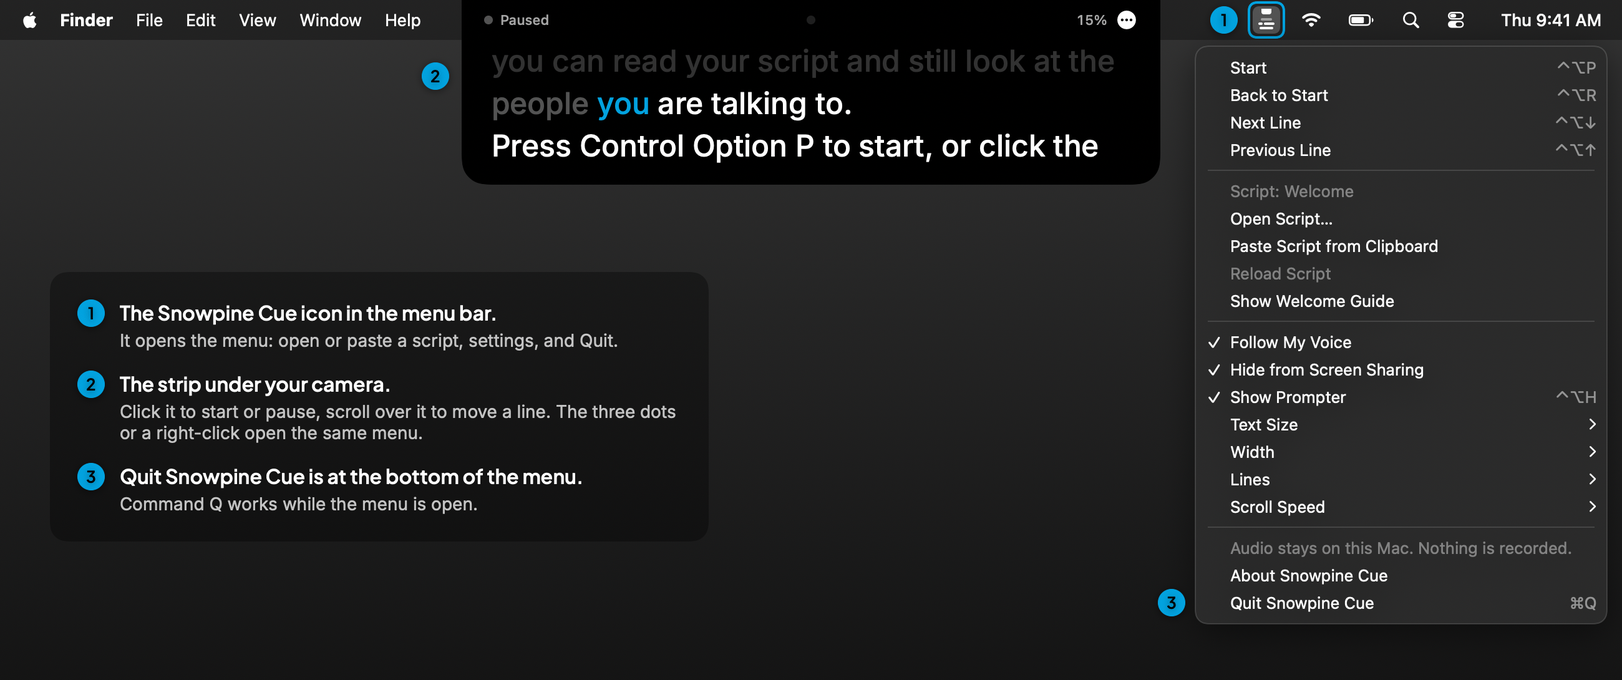
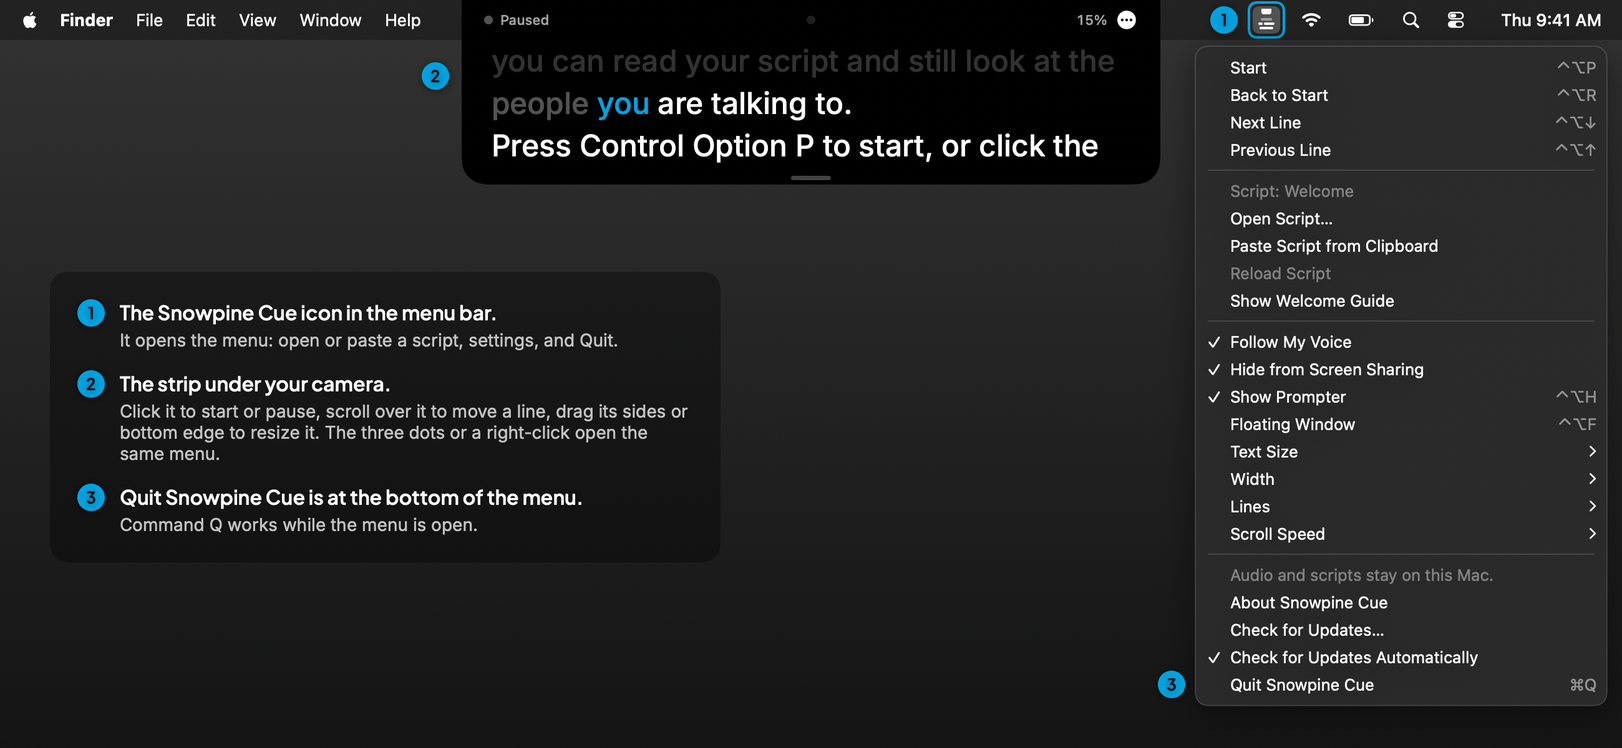
Docs, page and pictures for 0.3.0; stop a dragged edge at the screen

diff --git a/site/index.html b/site/index.html
@@ -42,7 +42,7 @@
 </div>
 
 <section class="alt"><div class="wrap">
-  <div class="intro"><div class="eyebrow">See it</div><h2>One minute with Snowpine Cue</h2></div>
+  <div class="intro"><div class="eyebrow">See it</div><h2>See Snowpine Cue in action</h2></div>
   <video controls preload="none" playsinline poster="assets/video-poster.jpg" width="1920" height="1080">
     <source src="assets/snowpine-cue.mp4" type="video/mp4">
     <a href="assets/snowpine-cue.mp4">Download the video</a>
@@ -64,6 +64,14 @@
     <figure><img src="assets/pictures/share.png" alt="Two screens side by side. On your screen the strip shows above the slides. What they see is only the slides." loading="lazy" width="1400" height="565"><figcaption>An illustration of how it's designed to work.</figcaption></figure>
   </div>
   <div class="row">
+    <div><h3>Make it your size</h3><p>Drag the strip's sides or bottom edge to resize it. Or switch to a floating window you can move to any screen and resize from any edge. It's hidden from screen sharing too.</p></div>
+    <figure><img src="assets/pictures/size.png" alt="A larger floating window with a script in it on a Mac screen, with an arrow on its corner showing it can be dragged to resize." loading="lazy" width="1400" height="1000"><figcaption>The real window with a made-up talk.</figcaption></figure>
+  </div>
+  <div class="row">
+    <div><h3>Set your own pace</h3><p>Rather not have it listen? Turn off Follow My Voice and it scrolls at a set speed. Change the speed with a shortcut or a slider, and it shows right on the strip.</p></div>
+    <figure><img src="assets/pictures/speed.png" alt="The strip scrolling at a set speed, showing 150 words a minute in its top band." loading="lazy" width="1400" height="400"></figure>
+  </div>
+  <div class="row">
     <div><h3>Bring the script you already have</h3><p>Open plain text, Markdown, Word, RTF or OpenDocument files, or just paste your script in. Slide decks saved as HTML with speaker notes load a slide at a time.</p></div>
     <figure><img src="assets/pictures/script.png" alt="The supported file types, and the Open Script and Paste Script from Clipboard menu items." loading="lazy" width="1400" height="500"></figure>
   </div>
@@ -71,7 +79,7 @@
 
 <section class="alt"><div class="wrap">
   <div class="intro"><div class="eyebrow">Private</div><h2>Your words stay on your Mac</h2>
-    <p>Speech is recognized on your Mac. Audio is never recorded. The app runs in the macOS sandbox with no network permission, so macOS itself blocks it from the internet. There's no account, no analytics and no tracking. You can check all of this in the code.</p></div>
+    <p>Speech is recognized on your Mac. Audio is never recorded, and your scripts never leave it. The app runs in the macOS sandbox with no network permission of its own. The only thing that goes online is the update check, which a separate helper runs against GitHub, and you can turn that off. There's no account, no analytics and no tracking. You can check all of this in the code.</p></div>
 </div></section>
 
 <section id="install"><div class="wrap">
@@ -81,6 +89,7 @@
     <li><a href="https://github.com/snowpinecode/snowpine-cue/releases/latest/download/Snowpine-Cue.zip">Download the zip</a>, open it, and drag Snowpine Cue to your Applications folder.</li>
     <li>Open it. macOS will say it can't check the app. Click <strong>Done</strong>.</li>
     <li>Go to System Settings &gt; Privacy &amp; Security, scroll down, and click <strong>Open Anyway</strong>.</li>
+    <li>In the box that pops up, click <strong>Open Anyway</strong> again (not Move to Trash), then confirm with your password or Touch ID. You only do this once.</li>
     <li>The strip appears under your camera with a short welcome guide. Press <strong>Control Option P</strong> and read it out loud. macOS asks to use the microphone and speech recognition the first time. Allow both.</li>
   </ol>
   <p class="fine narrow">To remove it, quit from its menu and drag it to the Trash. It has no installer and nothing else to clean up beyond its saved settings.</p>
@@ -98,6 +107,7 @@ scripts/build-app.sh --install</code></pre>
   <details><summary>Is it really free?</summary><p>Yes. It's open source under the MIT License, so you can use it, change it and share it.</p></details>
   <details><summary>Which Macs does it work on?</summary><p>Any Mac on macOS 14 or later. It's best on a MacBook with a notch and the built-in camera. On other Macs the strip hangs from the top of the screen.</p></details>
   <details><summary>Is there an iPhone version?</summary><p>Not yet. It's Mac only for now.</p></details>
+  <details><summary>How do updates work?</summary><p>It checks GitHub when it opens and once a day. If a new version is out it tells you, and one click installs it. Nothing installs without that click, and each update must carry a matching signature. Turn off Check for Updates Automatically in the menu and it only checks when you ask. If you have version 0.2.0, download the new version once by hand.</p></details>
   <details><summary>How do I open the menu or quit?</summary><p>Click the three dots on the right side of the strip, or right-click the strip. Quit is at the bottom of the menu.</p></details>
   <details><summary>The strip doesn't move when I talk. What now?</summary><p>Check that Follow My Voice is ticked in the menu, and that Snowpine Cue is allowed under Microphone and Speech Recognition in System Settings. If it says on-device speech isn't available, turn on Dictation under Keyboard settings so macOS downloads the speech model.</p></details>
   <details><summary>Who made this?</summary><p>Snowpine Code. I build custom websites, apps and automations. <a href="https://snowpinecode.com">See what else I do</a>.</p></details>

diff --git a/Sources/SnowpineCueCore/PanelGeometry.swift b/Sources/SnowpineCueCore/PanelGeometry.swift
@@ -112,6 +112,19 @@ public enum PanelGeometry {
         return (CGRect(x: minX, y: minY, width: width, height: height), lines)
     }
 
+    /// The same, but a dragged edge stops at the edge of the screen, so the opposite edge never gets pushed.
+    public static func resizeFloating(_ frame: CGRect, edges: ResizeEdges, dx: CGFloat, dy: CGFloat,
+                                      limits: PanelLimits, within bounds: CGRect) -> (frame: CGRect, lines: Int) {
+        let roomWide = edges.contains(.left) ? frame.maxX - bounds.minX : bounds.maxX - frame.minX
+        let roomTall = edges.contains(.top) ? bounds.maxY - frame.minY : frame.maxY - bounds.minY
+        let widest = max(limits.width.lowerBound, min(limits.width.upperBound, roomWide))
+        let linesThatFit = Int(((roomTall - limits.chrome) / limits.lineHeight).rounded(.down))
+        let tallest = max(limits.lines.lowerBound, min(limits.lines.upperBound, linesThatFit))
+        let tighter = PanelLimits(width: limits.width.lowerBound...widest, lines: limits.lines.lowerBound...tallest,
+                                  lineHeight: limits.lineHeight, chrome: limits.chrome)
+        return resizeFloating(frame, edges: edges, dx: dx, dy: dy, limits: tighter)
+    }
+
     /// Keeps a window inside the bounds when it fits there, and pins it to the top left when it doesn't,
     /// so its top band (where it is dragged from) is always reachable.
     public static func clamp(_ frame: CGRect, to bounds: CGRect) -> CGRect {

diff --git a/Tests/SnowpineCueCoreTests/PanelGeometryTests.swift b/Tests/SnowpineCueCoreTests/PanelGeometryTests.swift
@@ -78,3 +78,18 @@ private let size = CGSize(width: 600, height: 52 + 3 * 34)
     #expect(tooBig.minX == 0)
     #expect(tooBig.maxY == screen.maxY)   // the top band stays reachable
 }
+
+@Test func aDraggedEdgeStopsAtTheScreenSoTheOppositeEdgeStaysPut() {
+    let screen = CGRect(x: 0, y: 0, width: 1440, height: 900)
+    let frame = CGRect(x: 600, y: 300, width: 820, height: limits.height(lines: 3))
+    let right = PanelGeometry.resizeFloating(frame, edges: .right, dx: 100, dy: 0, limits: limits, within: screen)
+    #expect(right.frame.minX == 600)
+    #expect(right.frame.maxX == 1440)
+    let bottom = PanelGeometry.resizeFloating(frame, edges: .bottom, dx: 0, dy: -5000, limits: limits, within: screen)
+    #expect(bottom.frame.maxY == frame.maxY)
+    #expect(bottom.frame.minY >= 0)
+    let left = CGRect(x: 40, y: 300, width: 820, height: limits.height(lines: 3))
+    let leftward = PanelGeometry.resizeFloating(left, edges: .left, dx: -100, dy: 0, limits: limits, within: screen)
+    #expect(leftward.frame.maxX == left.maxX)
+    #expect(leftward.frame.minX == 0)
+}

diff --git a/Sources/SnowpineCue/AppDelegate.swift b/Sources/SnowpineCue/AppDelegate.swift
@@ -207,7 +207,8 @@ final class AppDelegate: NSObject, NSApplicationDelegate, NSMenuDelegate {
             return
         }
         if settings.floating {
-            let result = PanelGeometry.resizeFloating(start.frame, edges: edges, dx: dx, dy: dy, limits: start.limits)
+            let bounds = screen(for: start.frame)?.frame ?? homeScreen?.frame ?? start.frame
+            let result = PanelGeometry.resizeFloating(start.frame, edges: edges, dx: dx, dy: dy, limits: start.limits, within: bounds)
             settings.floatTopLeft = CGPoint(x: result.frame.minX, y: result.frame.maxY)
             if settings.floatWidth != Double(result.frame.width) { settings.floatWidth = Double(result.frame.width) }
             if settings.floatLines != result.lines { settings.floatLines = result.lines }

diff --git a/README.md b/README.md
@@ -5,9 +5,9 @@
 A free, open source teleprompter that sits right under your MacBook's camera and follows your voice.
 Made by [Snowpine Code](https://snowpinecode.com).
 
-**[See the page and the one-minute video](https://snowpinecode.github.io/snowpine-cue/)**
+**[See the page and the video](https://snowpinecode.github.io/snowpine-cue/)**
 
-[![Watch the one-minute video](docs/video-poster.jpg)](https://snowpinecode.github.io/snowpine-cue/)
+[![Watch the video](docs/video-poster.jpg)](https://snowpinecode.github.io/snowpine-cue/)
 
 Reading a script on a video call makes your eyes drift away from the camera. Snowpine Cue puts the
 script in a small strip at the top of the screen, next to the camera in the notch, and moves
@@ -28,13 +28,22 @@ not your script.
 - **Reads your scripts.** Plain text, Markdown, Word (.docx), RTF, OpenDocument, or paste from the
   clipboard. Slide decks saved as HTML with speaker notes in `data-notes` attributes load one
   slide at a time, with the slide titles as labels.
-- **Manual mode.** Turn off Follow My Voice to scroll at a set speed instead.
+- **Your size, your place.** Drag the strip's sides or bottom edge to resize it, or switch to a
+  floating window you can move to any screen and resize from any edge. It's hidden from screen sharing too.
+- **Manual mode.** Turn off Follow My Voice to scroll at a set speed instead. Change the speed with a
+  shortcut or a slider, and it shows in words a minute on the strip.
+- **One-click updates.** It tells you when a new version is out, and one click installs it.
 
 ## Getting started
 
 ### 1. Install
 
-**Download it:** [download the zip](https://github.com/snowpinecode/snowpine-cue/releases/latest/download/Snowpine-Cue.zip), open it, and drag Snowpine Cue to Applications. The app isn't signed with a paid Apple developer certificate, so macOS warns you the first time. Open it, click **Done**, then go to System Settings > Privacy & Security, scroll down and click **Open Anyway**.
+**Download it:**
+
+1. [Download the zip](https://github.com/snowpinecode/snowpine-cue/releases/latest/download/Snowpine-Cue.zip), open it, and drag Snowpine Cue to Applications.
+2. Open it. The app isn't signed with a paid Apple developer certificate, so macOS says it was blocked. Click **Done**.
+3. Go to System Settings > Privacy & Security, scroll down and click **Open Anyway**.
+4. In the box that pops up, click **Open Anyway** again (not Move to Trash), then confirm with your password or Touch ID. You only do this once.
 
 **Or build it yourself,** which takes about a minute and skips the warning. You need the Xcode Command Line Tools (run `xcode-select --install` once) or Xcode. Then in Terminal:
 
@@ -90,9 +99,11 @@ it waits; when you pick up again, even a sentence later, it finds your place.
 | Control Option Down / Up | Next or previous line |
 | Control Option R | Back to the start |
 | Control Option H | Show or hide the strip |
+| Control Option F | Switch between the strip and the floating window |
+| Control Option Right / Left | Scroll faster or slower when Follow My Voice is off |
 
-With the mouse: click the strip to start or pause, scroll over it to move by lines, and click the
-three dots or right-click it for the menu.
+With the mouse: click the strip to start or pause, scroll over it to move by lines, drag its sides or
+bottom edge to resize it, and click the three dots or right-click it for the menu.
 
 The menu also sets the text size, the strip width, how many lines show, and the scroll speed for
 manual mode (when Follow My Voice is off).
@@ -102,6 +113,14 @@ To check how a file will be read before a call:
 ```bash
 "$HOME/Applications/Snowpine Cue.app/Contents/MacOS/SnowpineCue" --check-script "My talk.md"
 ```
+
+## Updating
+
+Snowpine Cue tells you when a new version is out, and one click installs it. Nothing installs without
+that click. Choose **Check for Updates…** in the menu any time, or turn off **Check for Updates
+Automatically**. With it off, no check starts unless you ask.
+
+Version 0.2.0 can't update itself: [download the newest version](https://github.com/snowpinecode/snowpine-cue/releases/latest/download/Snowpine-Cue.zip) once and replace the old copy. macOS asks for the microphone and speech recognition one more time after that, and not again on later updates.
 
 ## Troubleshooting
 
@@ -122,8 +141,13 @@ To check how a file will be read before a call:
   do that for your language, voice follow stays off; Snowpine Cue never falls back to a server.
 - Audio is **never recorded or saved**. The microphone is on only while the prompter is running.
 - The app runs in the **macOS App Sandbox with no network entitlement**, so macOS itself blocks it
-  from reaching the internet. The code has no networking calls, and CI checks that it stays that
-  way (`scripts/check-no-network.sh`).
+  from reaching the internet. The app's own code has no networking calls, and CI checks that it stays
+  that way (`scripts/check-no-network.sh`).
+- **The only network use is checking for updates.** That is done by the Downloader helper in
+  [Sparkle](https://sparkle-project.org), an open source update tool. It fetches only the update feed
+  and the new version from GitHub, over https. Your speech, audio and scripts are never part of it. GitHub
+  sees what it sees for any download. You can turn off automatic checks in the menu.
+- Each update must carry a valid signature matching the key in the app, checked before it is unpacked.
 - No accounts, no analytics, no tracking. Your settings are stored in the app's own preferences.
 
 ## Requirements
@@ -146,25 +170,24 @@ Because the strip hides from screenshots, the pictures in this README are drawn 
 ## Build and test
 
 ```bash
-scripts/test.sh          # unit tests, no-network check, smoke test
-scripts/build-app.sh     # build/Snowpine Cue.app
+scripts/test.sh          # unit tests, no-network check, smoke test, window check
+scripts/build-app.sh     # build/Products.noindex/Snowpine Cue.app
 ```
 
 The matching logic lives in `Sources/SnowpineCueCore` (no UI, fully unit tested). The app is in
 `Sources/SnowpineCue`. `SnowpineCue --smoke-test <folder>` renders the strip to `prompter.png` without
 showing a window or touching the microphone.
 
-Builds are signed ad hoc, so macOS warns on downloaded copies. A paid Apple Developer ID would remove the warning.
-`scripts/package-release.sh` builds the download, and pushing a tag like `v0.2.0` publishes it on the Releases page.
+Local builds are signed ad hoc. Releases are signed with one self-signed certificate, so macOS keeps its permissions across updates. macOS still warns the first time on a downloaded copy; a paid Apple Developer ID would remove that. See [docs/MAINTAINING.md](docs/MAINTAINING.md) for how releases and updates work.
 
 The web page is in `site/` and publishes to GitHub Pages when `main` changes.
 
 ## Contributing
 
-Issues and pull requests are welcome. Please keep the privacy guarantees: no network access, no
-recording, on-device recognition only. `scripts/test.sh` must pass.
+Issues and pull requests are welcome. Please keep the privacy guarantees: no network access in the
+app itself (only Sparkle's Downloader helper, for updates), no recording, on-device recognition only. `scripts/test.sh` must pass.
 
 ## License
 
 MIT. See [LICENSE](LICENSE). The bundled Inter and Plus Jakarta Sans fonts are under the SIL Open Font
-License (see `Resources/Fonts`). The Snowpine Code name and logo are not part of the MIT grant.
+License (see `Resources/Fonts`). Sparkle, the one third-party dependency, is under its own MIT-style license (see `Resources/Sparkle-LICENSE.txt`) and pinned to an exact version in `Package.swift`. The Snowpine Code name and logo are not part of the MIT grant.

diff --git a/docs/MAINTAINING.md b/docs/MAINTAINING.md
@@ -4,8 +4,22 @@
 You need macOS 14 or later and the Xcode Command Line Tools.
 
 ```bash
-scripts/test.sh                  # unit tests, the no-network check, a render check
+scripts/test.sh                  # unit tests, the no-network check, a render check, the window check
 scripts/build-app.sh --install   # builds the app and moves it to ~/Applications
+```
+
+Without a signing identity, `build-app.sh` signs the app ad hoc. That is fine for testing, but macOS
+treats each ad-hoc build as a new app, so it asks for the microphone and speech permissions again.
+
+### A build signed with the release certificate
+Import the certificate (a .p12 file and a file holding its password) into a throwaway keychain, then
+build with it. Your login keychain is not touched.
+
+```bash
+export SIGN_KEYCHAIN=$(scripts/import-signing-cert.sh cert.p12 cert-password.txt)
+export SIGN_IDENTITY="Snowpine Code App Signing"
+scripts/build-app.sh
+security delete-keychain "$SIGN_KEYCHAIN"   # when you're done
 ```
 
 ## Where things live
@@ -17,13 +31,48 @@ scripts/build-app.sh --install   # builds the app and moves it to ~/Applications
 | Strip colors | `Palette` in `Sources/SnowpineCue/PrompterView.swift` |
 | Fonts | `Resources/Fonts`, loaded by `Sources/SnowpineCue/BrandFonts.swift` |
 | Welcome guide | `WelcomeScript` in `Sources/SnowpineCue/ScriptLoader.swift` |
-| README pictures | `SnowpineCue --render-docs docs` redraws them from the real strip, menu and icon |
+| README pictures | `SnowpineCue --render-docs docs` redraws them from the real strip, menu, icon and floating window |
+| Strip frames for the page and video | `SnowpineCue --render-frames <folder>` draws the strip once per word of a demo talk, plus `strip-900.png` scrolling at a set speed |
+| Resize and move math | `PanelGeometry` in `Sources/SnowpineCueCore/PanelGeometry.swift` (unit tested); the mouse handling is `PrompterHostingView` |
+| In-app updates | `Sources/SnowpineCue/Updater.swift` (the only file that imports Sparkle); feed URL, public key and check settings in `Resources/Info.plist` |
+| Sparkle in the app bundle | `scripts/embed-sparkle.sh` copies the framework in and signs its parts. Sparkle's helpers keep Sparkle's own setup with no entitlements, and `scripts/build-app.sh` fails if any carries entitlements, on any architecture. Don't give the Downloader its own sandbox: that needs a Sparkle build with an app-specific service id, or it can clash with other apps that use Sparkle |
+| The update feed | `scripts/make-appcast.sh` signs the zip with the EdDSA key and writes `build/appcast.xml` |
+| Sparkle version | `Package.swift` (exact) and `scripts/sparkle-tools.sh` (`VERSION` and `SHA256` of the tools download). Change them together |
 | Web page | `site/`, published by `.github/workflows/pages.yml` |
 
+Builds go to `build/Products.noindex`, because Spotlight skips folders with that ending, so a build never shows up as a second copy of the app.
+
 ## Publish a download
-Set the version and push a tag, such as `v0.2.0`. `.github/workflows/release.yml` tests, builds and attaches the zip. The page links to `releases/latest/download/Snowpine-Cue.zip`, so it always gets the newest one.
+Releasing needs three repository secrets (Settings > Secrets and variables > Actions):
+
+| Secret | What it is |
+| --- | --- |
+| `CODESIGN_P12_BASE64` | The release certificate ("Snowpine Code App Signing") and its private key, as a base64 .p12 |
+| `CODESIGN_P12_PASSWORD` | The .p12 password |
+| `SPARKLE_ED_PRIVATE_KEY` | The EdDSA private key that signs updates. Its public half is `SUPublicEDKey` in `Resources/Info.plist` |
+
+Set the version in `scripts/build-app.sh` and `scripts/package-release.sh` (the default for local
+builds), then push a tag such as `v0.3.0`. `.github/workflows/release.yml` then:
+1. runs the tests,
+2. imports the certificate into a throwaway keychain,
+3. builds a universal app signed with it (the build number is the UTC date and time, so each release counts as newer),
+4. signs `Snowpine-Cue.zip` with the EdDSA key and writes `appcast.xml`,
+5. attaches `Snowpine-Cue.zip`, `Snowpine-Cue.zip.sha256` and `appcast.xml` to the release, and deletes the keychain.
+
+`https://github.com/snowpinecode/snowpine-cue/releases/latest/download/Snowpine-Cue.zip` always gets the newest
+download, and installed copies read `.../releases/latest/download/appcast.xml` to find updates. So:
+- Every release marked Latest must have `appcast.xml` attached, or update checks stop finding anything.
+- Keep the same certificate and the same EdDSA key. A new certificate makes macOS ask for the microphone
+  and speech permissions again; a new EdDSA key means installed copies refuse every update.
+- Back up the .p12, its password and the EdDSA private key somewhere safe outside the repository.
 
 ## Check before every release
 - Read a script aloud and check it keeps pace.
+- Drag the strip's edges, then switch to the floating window, move it and resize it from a corner.
 - Share the whole screen in a test call and check the strip doesn't show.
-- Keep the privacy promises: no network access, no recording, on-device recognition only.
+- Run `"build/Products.noindex/Snowpine Cue.app/Contents/MacOS/SnowpineCue" --update-check` on the packaged app: it reads the feed
+  through Sparkle's Downloader helper, with no window, and reports what it found.
+- After publishing, open the previous version, choose Check for Updates, install, and check that it
+  relaunches as the new version with its settings and without asking for permissions again.
+- Keep the privacy promises: no network access in the app itself (only Sparkle's Downloader, for
+  updates), no recording, on-device recognition only.

diff --git a/SECURITY.md b/SECURITY.md
@@ -7,15 +7,22 @@ on your Mac. Each control below names where it is implemented, so it can be chec
 
 | Control | Where |
 | --- | --- |
-| App Sandbox on, with no network entitlement: macOS blocks all network access | `Resources/SnowpineCue.entitlements` |
+| App Sandbox on, with no network entitlement: macOS blocks the app's own network access | `Resources/SnowpineCue.entitlements` |
+| In-app updates (Sparkle 2.10.1, pinned): the only network use. Sparkle's separate Downloader helper fetches the update feed and the update from GitHub, over https. Speech, audio and scripts are never part of it | `Sources/SnowpineCue/Updater.swift`, `Resources/Info.plist` |
+| Turning off Check for Updates Automatically means no check starts unless you ask. While it is off, the app refuses background checks, including one already scheduled | `Sources/SnowpineCue/Updater.swift` |
+| Every update must be signed with the EdDSA key matching `SUPublicEDKey`, checked before it is unpacked. Nothing installs without your click | `Resources/Info.plist`, `scripts/make-appcast.sh` |
+| Sparkle's helpers (Downloader, Installer, Updater) ship exactly as Sparkle ships them, with no extra entitlements. They are not sandboxed: the Installer has to replace the app, and giving the shared Downloader its own sandbox can clash with other apps that use Sparkle | `scripts/embed-sparkle.sh` |
+| Two extra entitlements, both for Sparkle: `cs.disable-library-validation` (to load its bundled framework without an Apple Team ID) and a mach-lookup exception for its two local services (`-spks`, `-spki`), which are connections between processes on the Mac, not network access | `Resources/SnowpineCue.entitlements` |
 | Only the microphone and user-chosen files (read only) are granted | `Resources/SnowpineCue.entitlements` |
 | Speech recognition is on-device only; no server fallback | `Sources/SnowpineCue/SpeechFollower.swift` (`requiresOnDeviceRecognition = true`, `supportsOnDeviceRecognition` check) |
 | Audio buffers go straight to the recognizer and are never written to disk | `Sources/SnowpineCue/SpeechFollower.swift` |
 | The microphone runs only while the prompter is running | `PrompterModel.start()` and `pause()` |
-| No networking APIs in the code, checked in CI | `scripts/check-no-network.sh`, `.github/workflows/ci.yml` |
-| Hardened runtime on the app signature | `scripts/build-app.sh` |
+| No networking APIs in the app's code, Sparkle imported in one file only, and exactly this set of entitlements, checked in CI | `scripts/check-no-network.sh`, `.github/workflows/ci.yml` |
+| The build checks the entitlements actually signed into the app are exactly that set on every architecture, and that Sparkle's helpers carry none | `scripts/build-app.sh` |
+| Script files have limits on size, length and sections, and packages are refused | `Sources/SnowpineCue/ScriptLoader.swift` |
+| Hardened runtime on the app signature. Releases are signed in CI with one certificate from repository secrets, in a throwaway keychain | `scripts/build-app.sh`, `scripts/import-signing-cert.sh`, `.github/workflows/release.yml` |
 | Secret scan of the full history on every push (pinned gitleaks) | `.github/workflows/secret-scan.yml` |
-| No accounts, analytics, crash reporting or telemetry | the whole of `Sources/` |
+| No accounts, analytics, crash reporting or telemetry. The update check sends GitHub only what any download does, and can be turned off | the whole of `Sources/` |
 | The strip is excluded from screen capture by default | `Sources/SnowpineCue/PrompterPanel.swift` (`sharingType = .none`) |
 
 The web page in `site/` is static: no scripts, cookies, analytics or forms, with a strict Content Security Policy.
@@ -28,7 +35,7 @@ preferences. Scripts are read when you open them and kept in memory; nothing is 
 ## Limits
 
 Screen-capture exclusion depends on macOS and on the capturing app honoring it. Test with your own
-call app before relying on it.
+call app before relying on it. Update checks are on by default (at launch and once a day); turn them off in the menu. Without a paid Apple Developer ID, a downloaded copy shows a macOS warning the first time it opens (see the README).
 
 ## Reporting a problem
 

diff --git a/docs/BUILD-LOG.md b/docs/BUILD-LOG.md
@@ -1,5 +1,20 @@
 # Build log
 
+## 2026-11-06: version 0.3.0
+
+- Resize by dragging: the strip's sides move together so it stays centered under the camera, and its bottom edge snaps to whole lines.
+- Floating Window (menu, or Control Option F): a larger window that can be dragged to any screen and resized from any edge or corner. It remembers its place and size and is hidden from screen sharing like the strip.
+- Scroll speed: Control Option Right and Left change it by 10 words a minute, the Scroll Speed menu has a slider (60 to 300), and the speed shows in the strip when Follow My Voice is off.
+- In-app updates with Sparkle 2.10.1 (pinned, the one third-party dependency). It checks GitHub at launch and once a day, says when a new version is out, and one click installs it. Check for Updates and Check for Updates Automatically are in the menu; with automatic checks off, background checks are refused.
+- The app still has no network entitlement. Sparkle's separate Downloader helper fetches the feed and the update. Every update must carry a valid EdDSA signature. New entitlements, for Sparkle only: `cs.disable-library-validation` and a mach-lookup exception for its two local services.
+- Releases are signed with one self-signed certificate instead of ad hoc, so macOS keeps the microphone and speech permissions across updates.
+- Builds go to `build/Products.noindex`, so Spotlight doesn't list a second copy.
+- Script loader limits: headings count toward the length limit, a limit on sections, packages and rtfd refused.
+- `SnowpineCue --window-check` drives the real panel with simulated presses and drags, and `--update-check` reads the feed with no window.
+- An independent review (Codex) found one medium problem, fixed with a test: dragging a floating window's edge near the side of the screen pushed the opposite edge.
+
+Checked here on an M5 MacBook Pro, macOS 27: 38 unit tests, the no-network, smoke and window checks, a signed universal build, and `--update-check` reaching GitHub through Sparkle's helper.
+
 ## 2026-11-05: version 0.2.0
 
 Rebranded for Snowpine Code: the Snowpine Cue name, bundle id com.snowpinecode.cue, brand 2.0 colors (black, white, neutral
